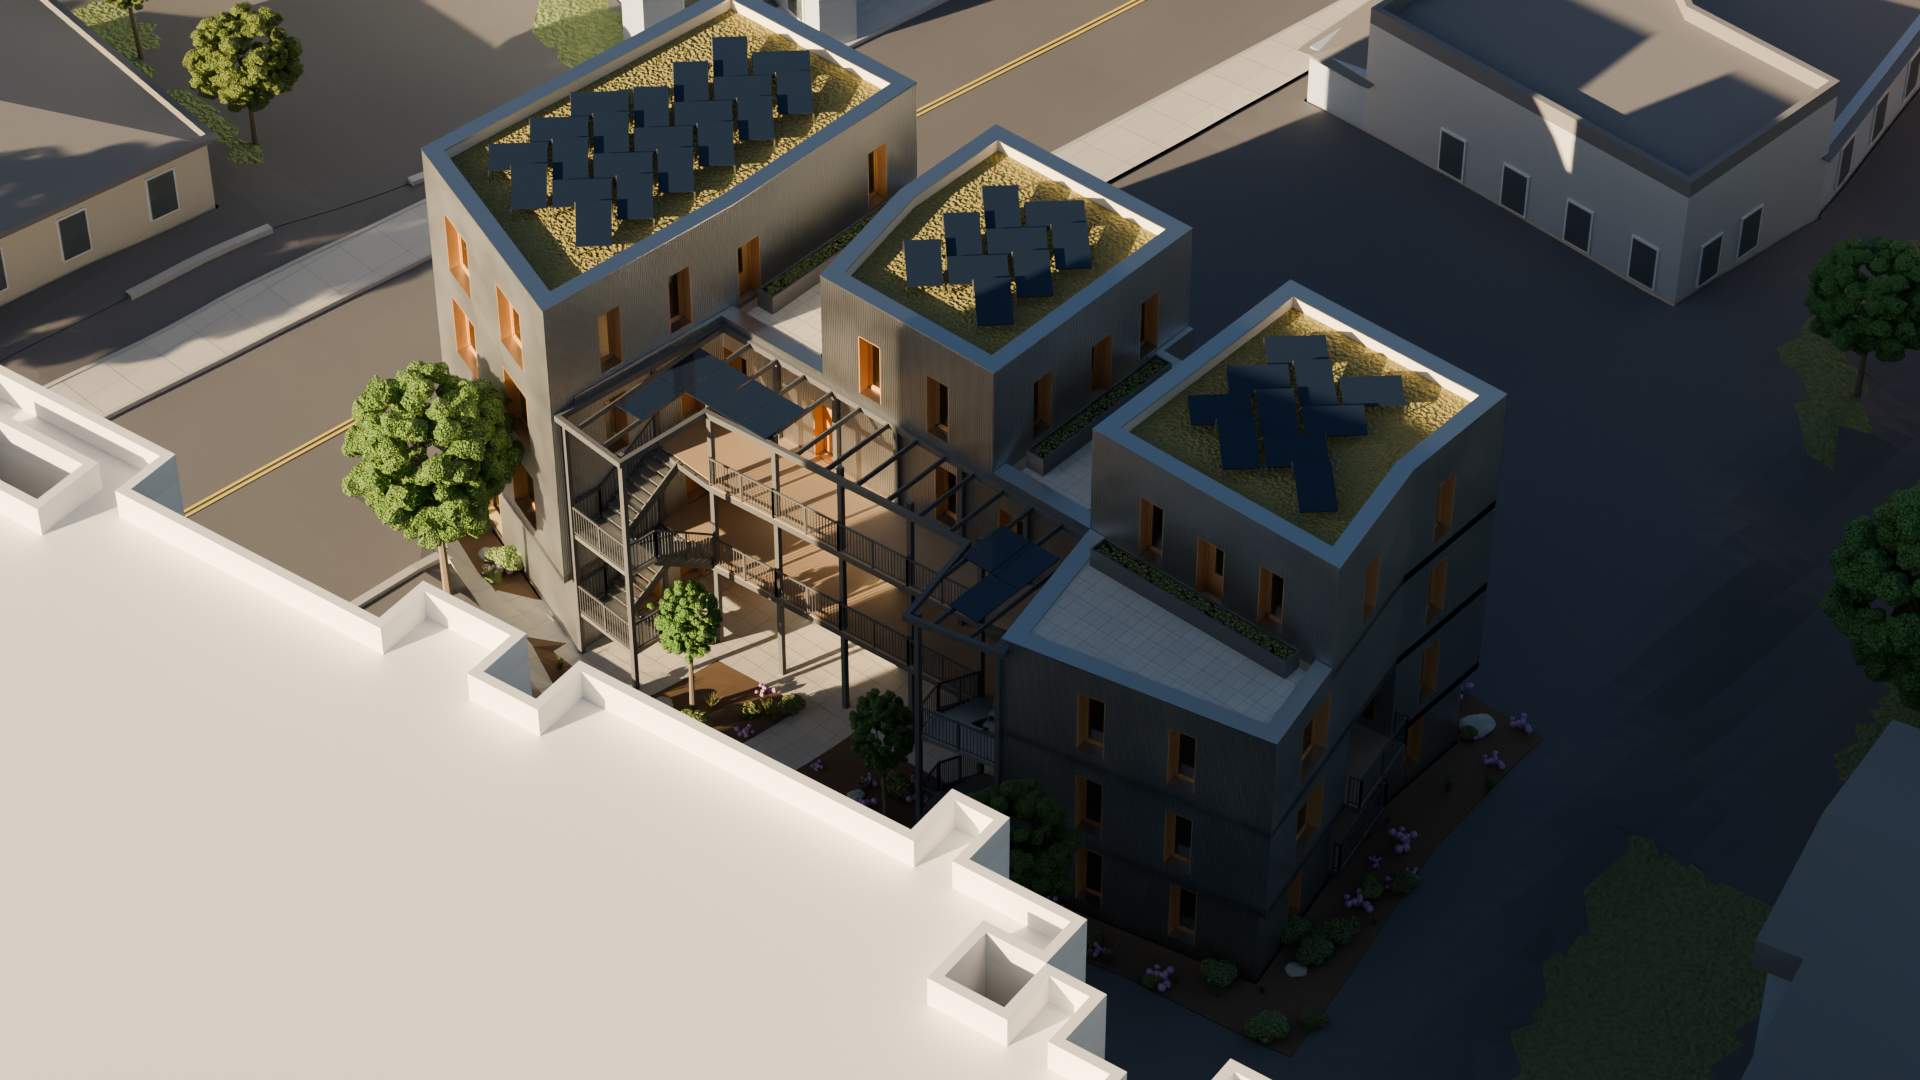
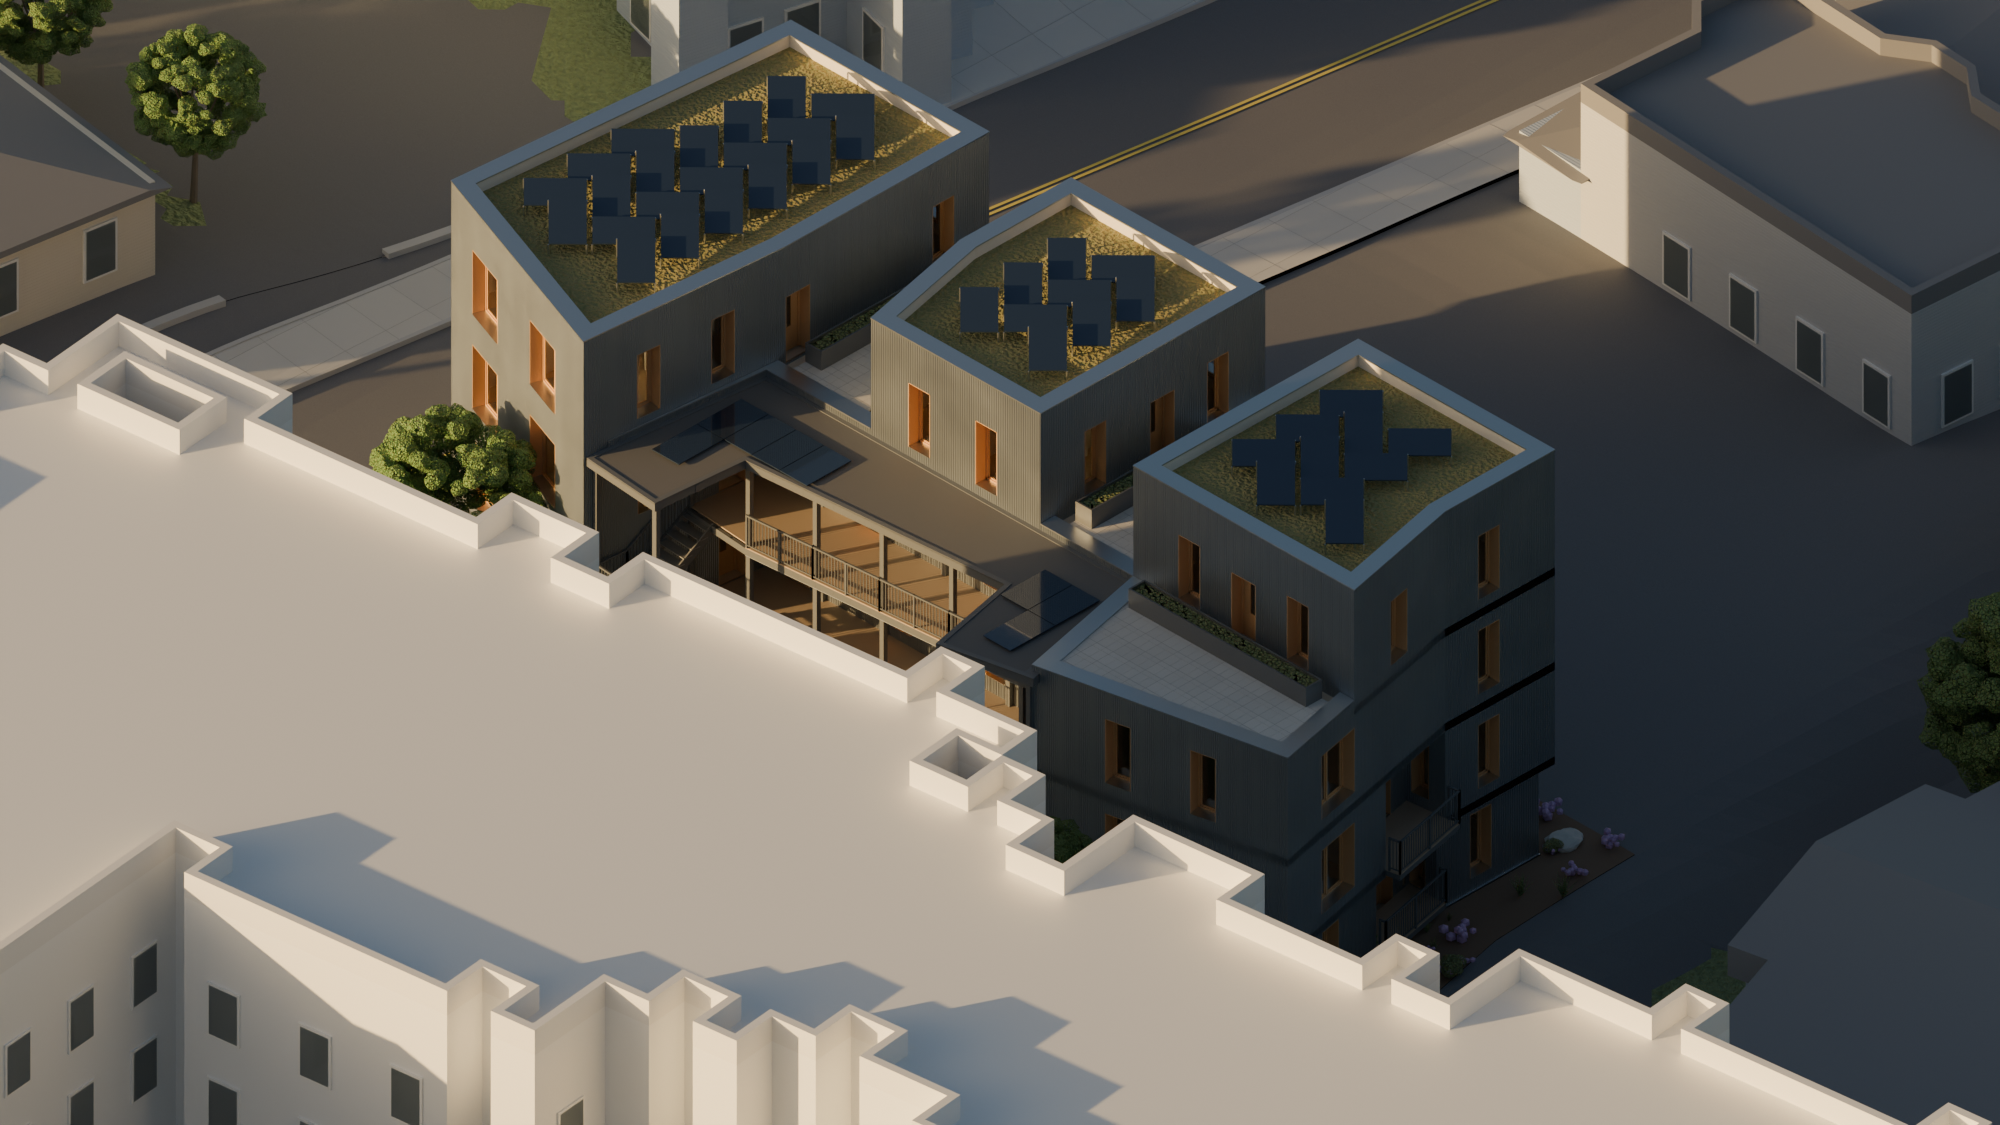
Blue-grey cladding, smoothed grade, four corner axonometrics
- site.yaml grading: lidar smoothing, stronger under buildings
  (removes the foreground hump in the main view)
- corrugated_galvalume tinted blue-grey to match the design rendering
- views: ortho cameras (ortho, ortho_scale); axon_sw/se/ne/nw
- renders updated in docs/renders

Claude-Session: https://claude.ai/code/session_014UYEFQSACBAKxVFsGrDUwg

diff --git a/docs/build_report.md b/docs/build_report.md
@@ -1,5 +1,5 @@
 # Build report — North Star House
-_Generated 2026-11-21 23:59 from spec/_
+_Generated 2026-11-22 02:56 from spec/_
 
 ## Checks
 
@@ -45,10 +45,13 @@ _Generated 2026-11-21 23:59 from spec/_
 | envelope | walls/plaster | clay_plaster | 557 |
 | envelope | walls/sheathing | wood_fibre_board | 548 |
 | envelope | walls/straw | straw_panel | 12,142 |
-| gallery | canopy/frame | steel_painted_dark | 69 |
+| gallery | canopy/frame | steel_painted_dark | 93 |
 | gallery | canopy/pv | pv_module | 17 |
+| gallery | canopy/roof | membrane | 52 |
+| gallery | canopy/soffit | soffit_painted | 38 |
 | gallery | columns | steel_painted_dark | 122 |
 | gallery | deck/framing | steel_painted_dark | 84 |
+| gallery | deck/soffit | soffit_painted | 47 |
 | gallery | deck/surface | decking_wood | 93 |
 | gallery | guardrails | steel_painted_dark | 20 |
 | gallery | stairs/landings | grating_galv | 57 |
